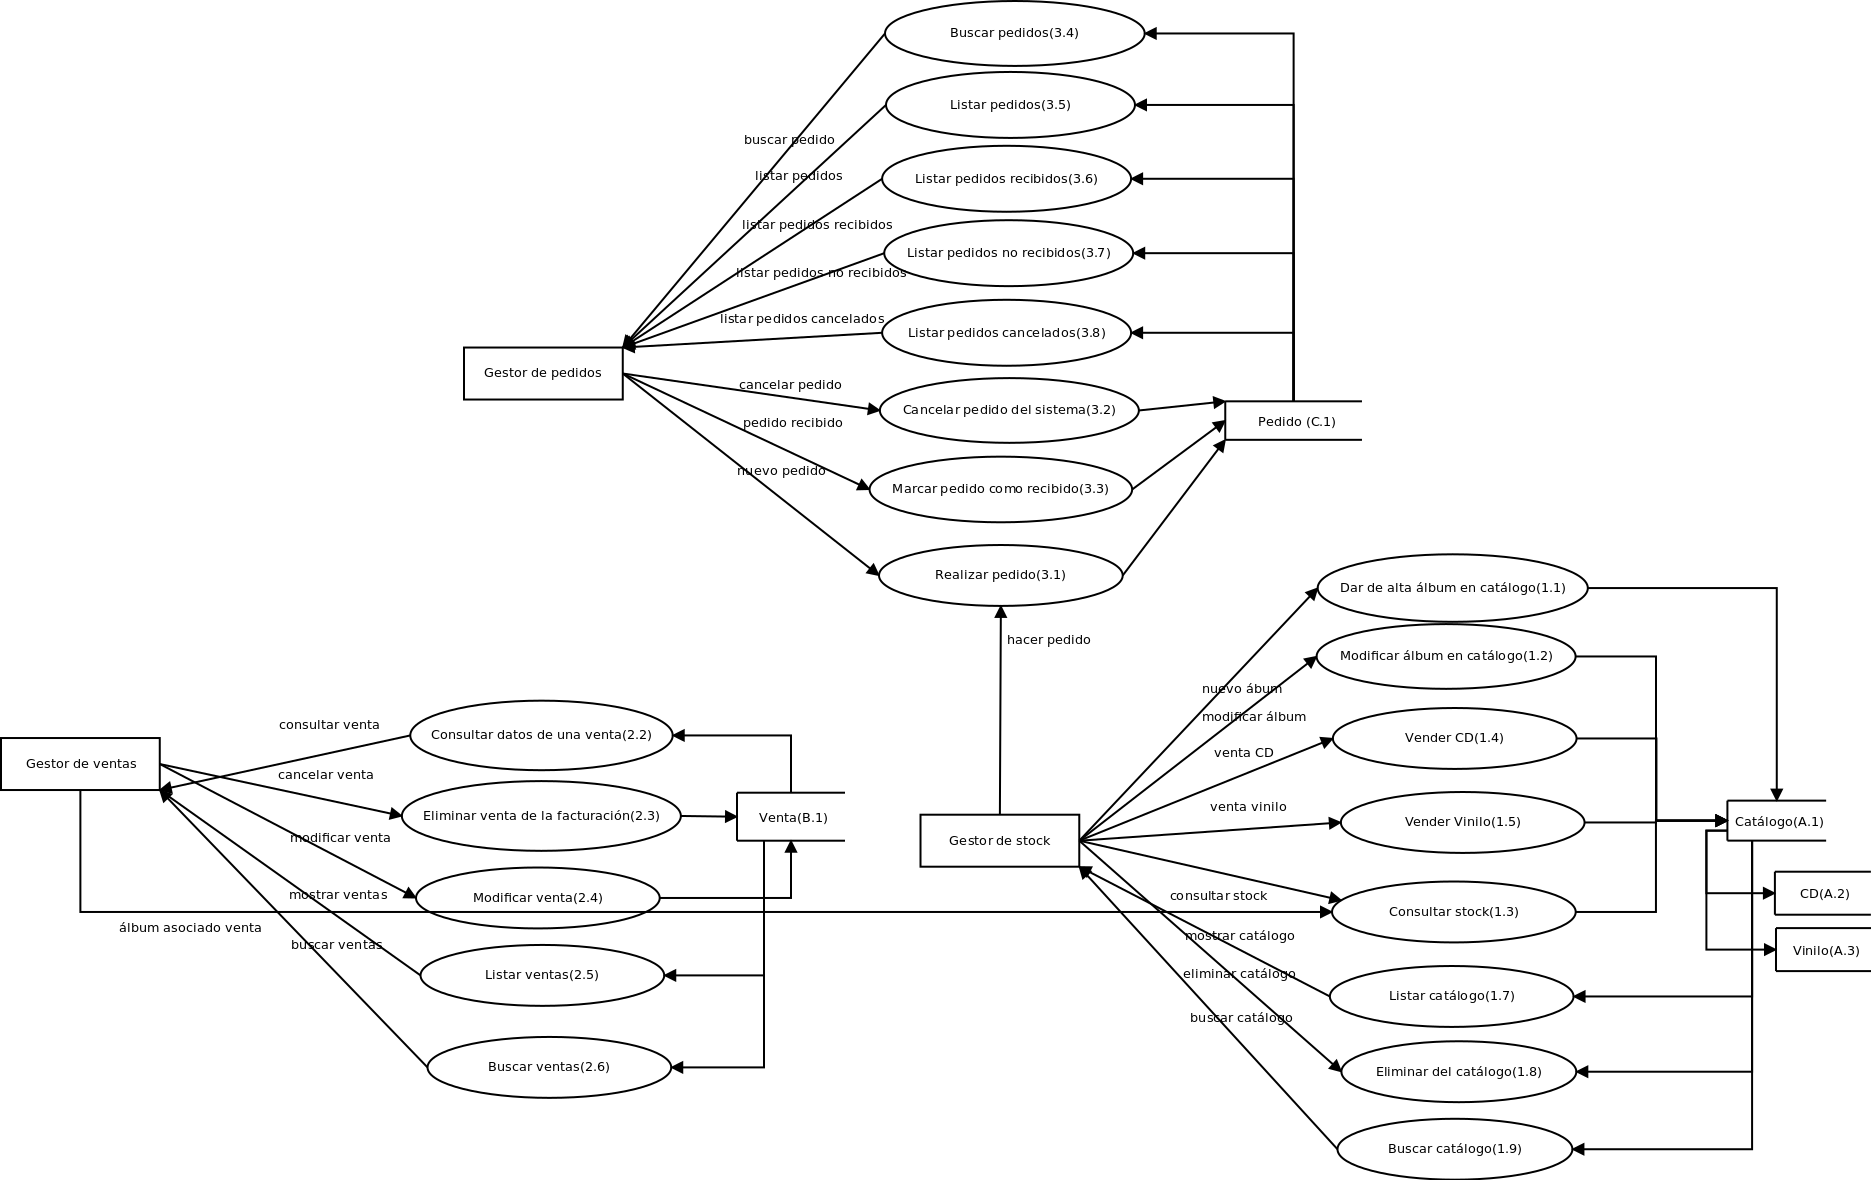
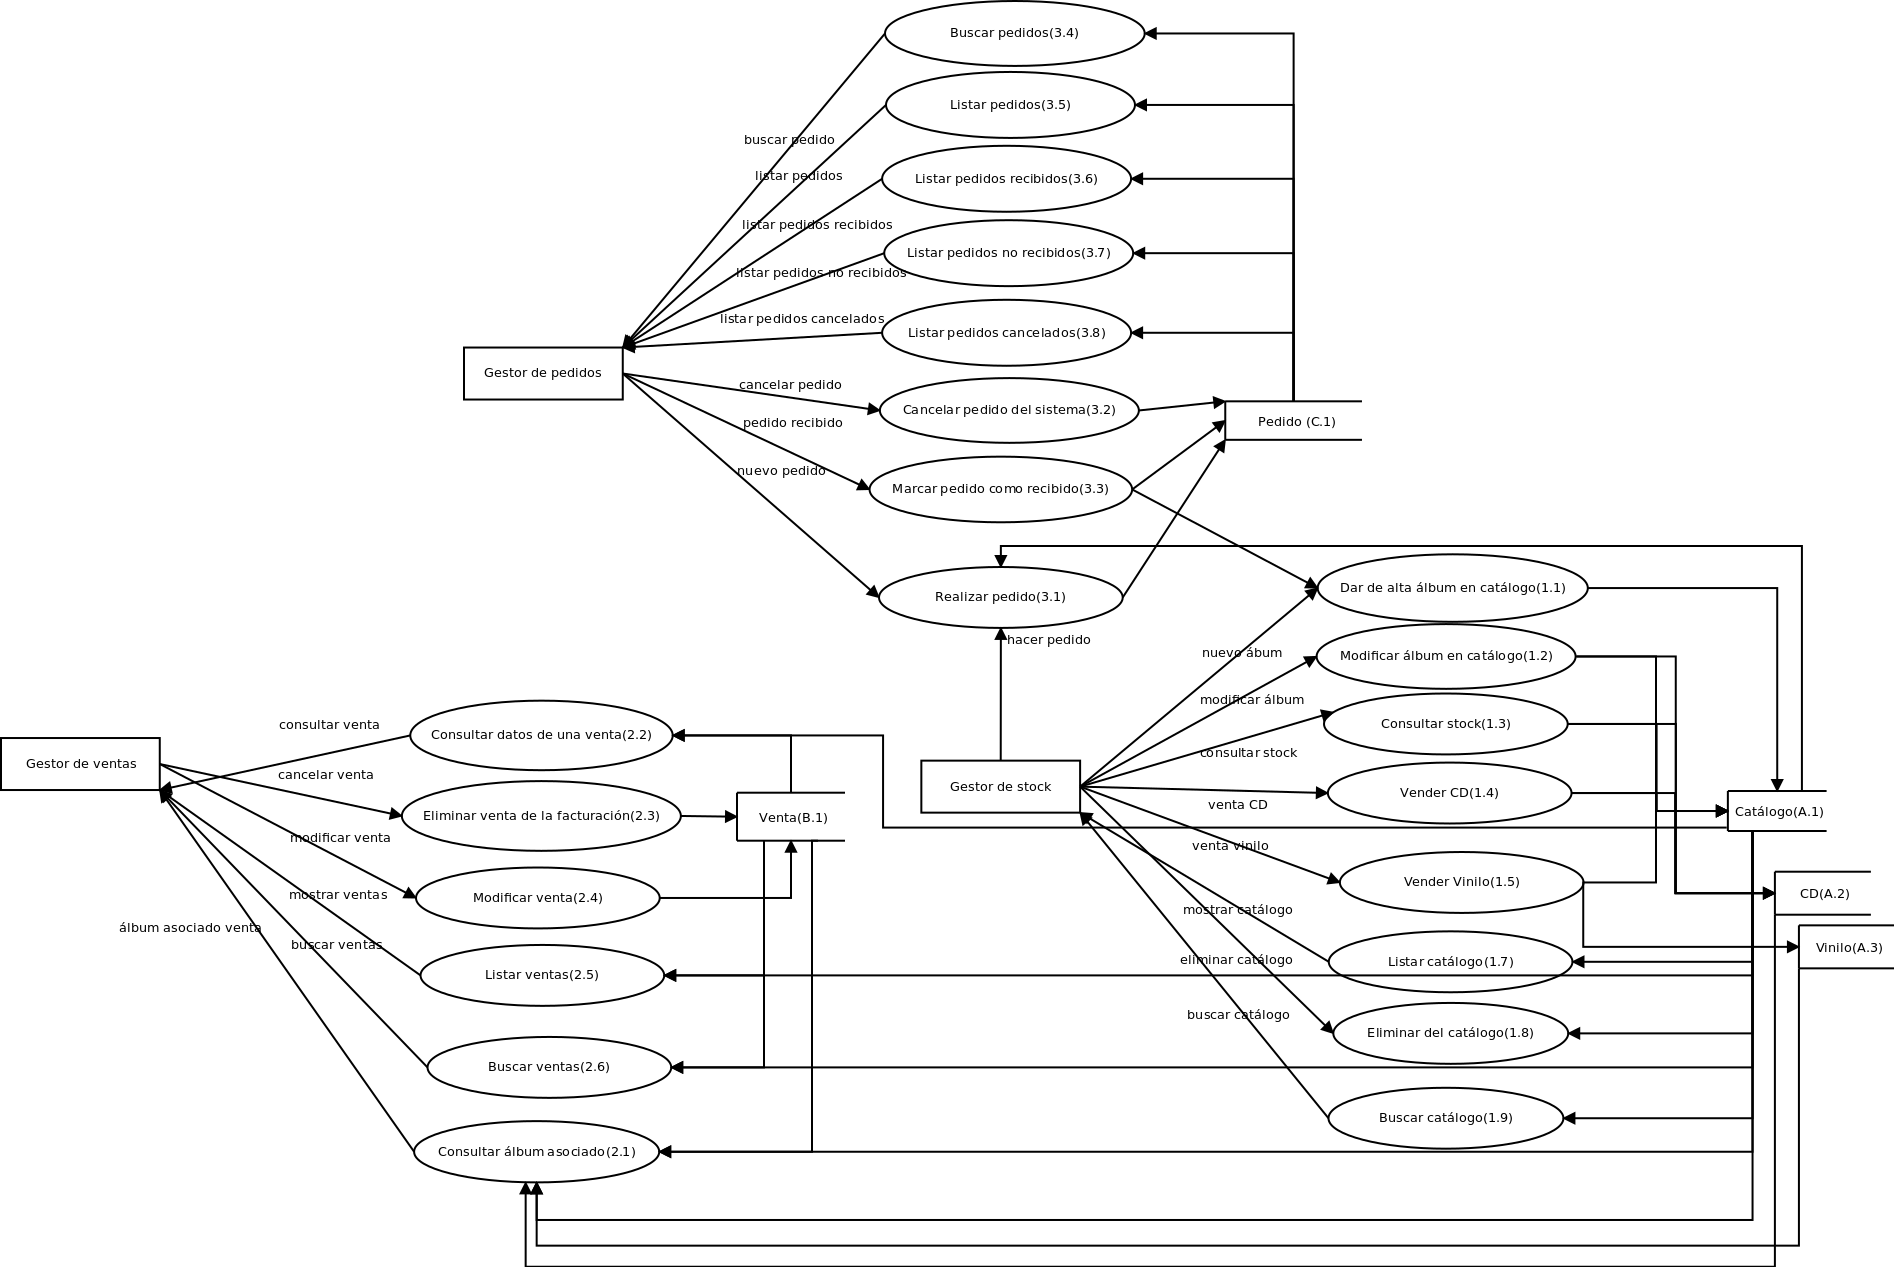
Añadido primer intento de refinamiento del esquema F

Changed region(s): [[0.0, 0.0, 1.0, 1.0], [0.186, 0.8542, 0.217, 0.8847]]

diff --git a/doc/memoria.md b/doc/memoria.md
@@ -414,6 +414,9 @@ actualiza su stock al recibir un pedido. Caso opuesto, se crea en catálogo.
 
 #### Esquemas externos del plano de refinamiento F
 
+
+\imgn{1.1}{./diagramas/externos_ref_F.png}
+
 ## Diagrama conceptual completo
 
 ## Esquemas de operación y navegación
